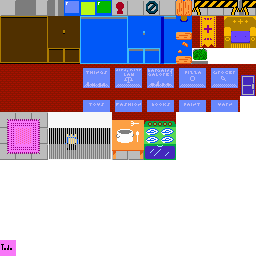
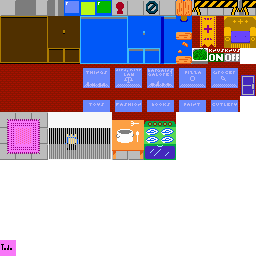
earthquake repair re edges, knives switch

Changed region(s): [[0.8125, 0.1875, 0.9375, 0.25], [0.8438, 0.4062, 0.9062, 0.4375]]

diff --git a/src/game/modal/modal_play.c b/src/game/modal/modal_play.c
@@ -78,7 +78,18 @@ static void play_update_earthquake(struct modal *modal,double dx,double dy) {
     struct sprite *sprite=g.spritev[i];
     if (sprite->defunct) continue;
     if (sprite->airborne) continue;
-    if ((sprite->x<0.0)||(sprite->y<0.0)||(sprite->x>NS_sys_mapw)||(sprite->y>NS_sys_maph)) continue; // eg offscreen princess
+    
+    /* If it's more than one meter offscreen, don't move at all.
+     * This is mostly for the Princess, when you leave her behind.
+     */
+    if ((sprite->x<-1.0)||(sprite->y<-1.0)||(sprite->x>NS_sys_mapw+1.0)||(sprite->y>NS_sys_maph+1.0)) continue;
+    
+    /* If it's just a little bit offscreen, permit motion in the direction that brings it back.
+     */
+    if ((sprite->x<0.0)&&(dx<=0.0)) continue;
+    if ((sprite->y<0.0)&&(dy<=0.0)) continue;
+    if ((sprite->x>NS_sys_mapw)&&(dx>=0.0)) continue;
+    if ((sprite->y>NS_sys_maph)&&(dy>=0.0)) continue;
     
     if (sprite->decorative) continue;
     if (sprite->type==&sprite_type_selfie) continue;

diff --git a/src/game/sprite/sprite_knife.c b/src/game/sprite/sprite_knife.c
@@ -1,5 +1,6 @@
 /* sprite_knife.c
  * Oscillates back and forth while appearing to rotate.
+ * A global flags "knivesoff" turns off knives everywhere (they're only used in one place).
  */
  
 #include "game/game.h"
@@ -86,6 +87,10 @@ static void knife_reset_path(struct sprite *sprite) {
 }
 
 static int _knife_init(struct sprite *sprite) {
+  if (store_get(NS_fld_knivesoff)) {
+    sprite->defunct=1;
+    return 0;
+  }
   sprite->airborne=1;
   SPRITE->tileid0=sprite->tileid;
   knife_reset_path(sprite);

diff --git a/src/game/session/session.c b/src/game/session/session.c
@@ -111,9 +111,9 @@ int session_reset() {
     sprite_del(g.spritev[g.spritec]);
   }
   
-  if (0) {
+  if (1) {
     fprintf(stderr,"*** %s:%d: Enabling treasures. ***\n",__FILE__,__LINE__);
-    store_set(NS_fld_got_broom,1);
+    //store_set(NS_fld_got_broom,1);
     store_set(NS_fld_got_pepper,1);
     store_set(NS_fld_got_compass,1);
     store_set(NS_fld_got_stopwatch,1);

diff --git a/src/game/shared_symbols.h b/src/game/shared_symbols.h
@@ -124,6 +124,7 @@
 #define NS_fld_bug              29
 #define NS_fld_shortcut1        30
 #define NS_fld_death_count      31
-#define FLD_COUNT               32
+#define NS_fld_knivesoff        32
+#define FLD_COUNT               33
 
 #endif

diff --git a/README.md b/README.md
@@ -29,10 +29,10 @@ Some items will have a count: Pepper, Bomb, Candy.
 - [ ] Modals.
 - - [ ] Game over. Success only. Game will not be loseable.
 - [ ] 3 side quests.
-- [ ] Switch to turn off the knives, south of frontdoor, so you don't have to do that first loop more than once.
+- [x] Switch to turn off the knives, south of frontdoor, so you don't have to do that first loop more than once.
 - [ ] NPCs with helpful dialogue.
 - [ ] Proper graphics.
-- [ ] Earthquake something off the edge, it stops responding, good. But you should be able to earthquake it back toward the action, at least.
+- [x] Earthquake something off the edge, it stops responding, good. But you should be able to earthquake it back toward the action, at least.
 - [ ] Visual fanfare on picking up prizes.
 - [ ] '' opening treadle (etc) locks.
 - [ ] Decorative snow during a snowglobe earthquake? Might be conspicuously nes-implausible.
